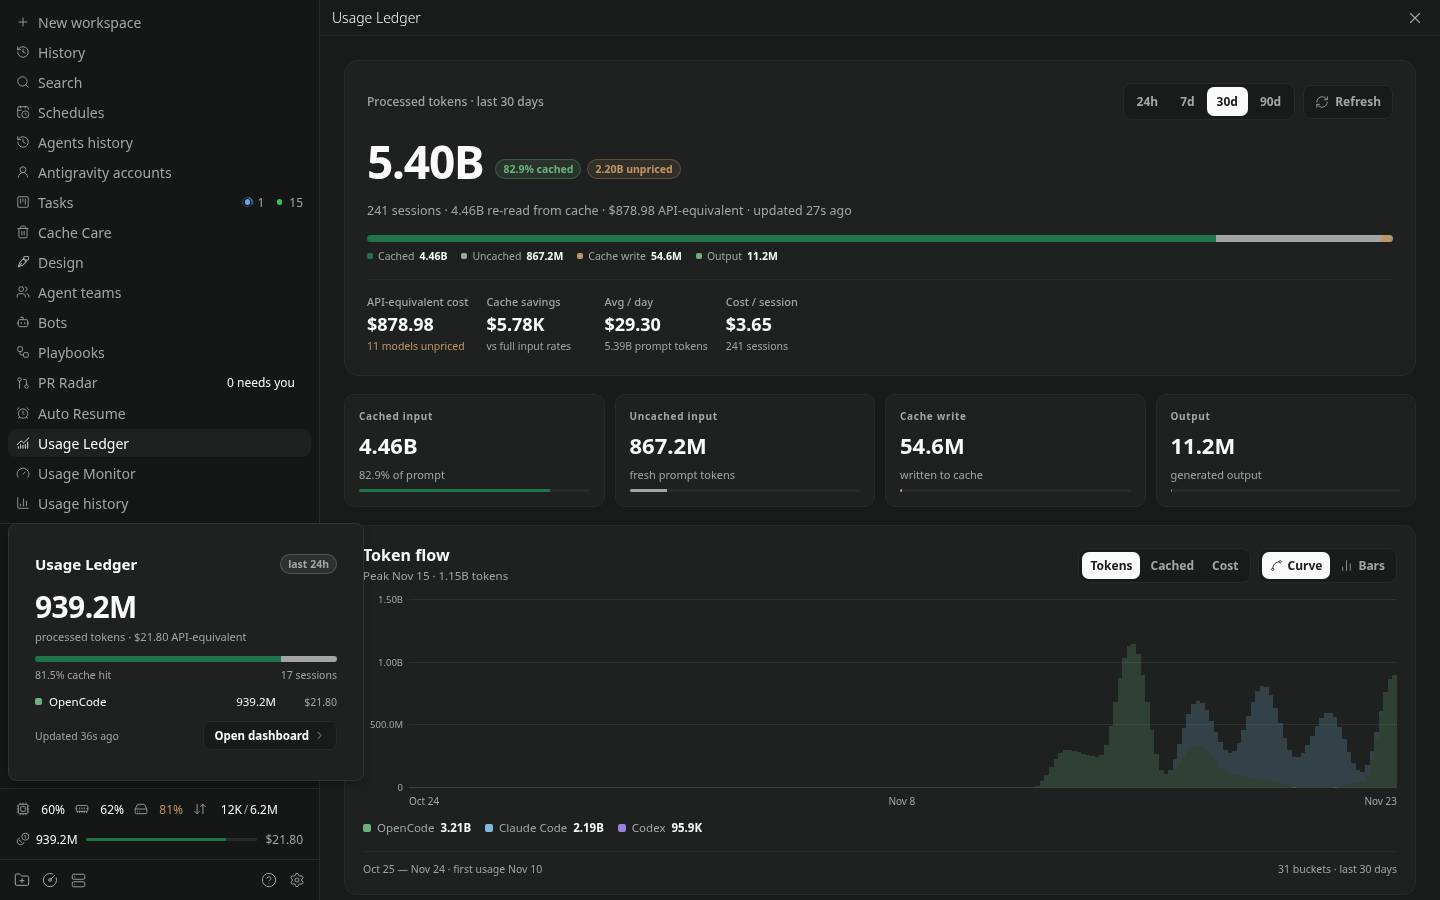
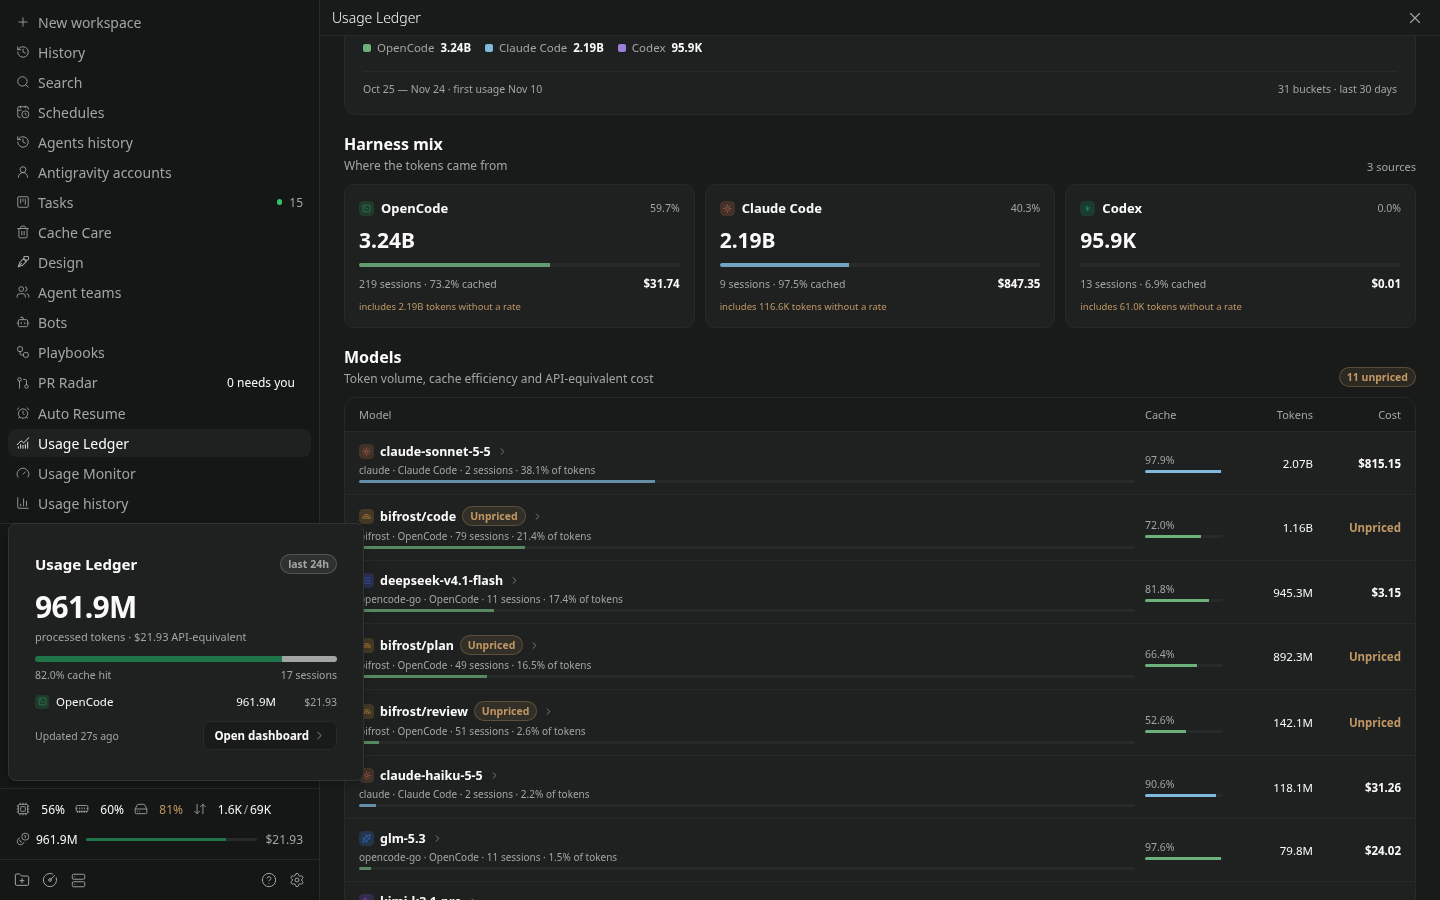
docs: document provider marks and refresh screenshots

diff --git a/OVERVIEW.md b/OVERVIEW.md
@@ -6,7 +6,7 @@ Token, cache, and API-equivalent cost analytics for Paseo agents.
 
 - **Sidebar row:** "Usage Ledger" opens the screen.
 - **Sidebar footer:** 24h tokens, cache meter, cost, and a popover with the harness split.
-- **Usage Ledger screen:** hero, range switch, composition meter, four token cards, stacked harness chart, harness cards, model table, and cost-assumption notes.
+- **Usage Ledger screen:** hero, range switch, composition meter, four token cards, stacked harness chart, harness cards, model table, automatic provider marks, and cost-assumption notes.
 
 Controls:
 
@@ -31,6 +31,7 @@ Controls:
 - Cost uses the reported log cost when present; otherwise the bundled rate table.
 - A model with no reported cost and no bundled rate is **Unpriced** and excluded from cost, never plotted as free.
 - Harness colors are fixed identity colors, not theme-accent or usage-rank colors.
+- Provider marks are detected from `model`, `provider`, then `harness`; model vendors win over gateways, and unknown names get a neutral `Cpu` mark. No network or brand asset is needed.
 
 ## Architecture
 
@@ -39,6 +40,7 @@ Controls:
 - `server/ledger.ts` — filesystem/SQLite sources, mtime+size JSONL cache, 60s summary cache, single-flight refresh.
 - `client/flow-chart.tsx` — stacked area/bars drawn with Views because plugins cannot load SVG.
 - `client/sidebar.tsx` — navigation row, ccusage-style footer, and popover.
+- `client/provider-rules.ts` + `provider-mark.tsx` — pure name detection and the tinted provider chip.
 - `shared/contracts.ts` — zod RPC contract; `ledger.summary` takes `{ range, refresh? }`.
 
 ## Cost of a refresh
@@ -55,7 +57,7 @@ Controls:
 
 - `npm run lint` — oxlint over client, server, shared, tests, and bench.
 - `npm run typecheck` — strict TypeScript.
-- `npm test` — parsers, aggregation, pricing, formatting, palette stability, chart scale.
+- `npm test` — parsers, aggregation, pricing, formatting, palette stability, provider detection, chart scale.
 - `npm run bench -- --assert` — parse throughput, 200k-event aggregation, summary time, heap growth.
 - `npm pack --dry-run` — plugin package contents.
 - GitHub Actions runs all checks on Node 22.

diff --git a/README.md b/README.md
@@ -10,6 +10,10 @@ Open it from **Usage Ledger** in the sidebar, or from the footer row. The footer
 
 ![Sidebar footer and 24h popover](docs/footer-dark.png)
 
+Harness cards and model rows get a provider mark from the logged names:
+
+![Provider marks on harness cards and model rows](docs/provider-marks.png)
+
 <details>
 <summary>Light theme</summary>
 
@@ -38,6 +42,7 @@ paseo plugin update usage-ledger
 - Per-harness sessions, cache rate, spend, and unpriced volume.
 - Per-model tokens, cache rate, share, blended cost per million tokens, and the full token split on expand.
 - **Unpriced** for any model without a reported cost or a bundled rate.
+- Automatic provider marks on harness and model rows. Claude, OpenAI, Codex, DeepSeek, Gemini, GLM, Kimi, Qwen, Mistral, Llama, Antigravity, OpenCode, Bifrost, and Ollama are recognized from the logged strings; unknown providers get a neutral chip. No brand assets are downloaded.
 
 The chart names its peak bucket. When a selected range begins before the first recorded usage, the footer says where the data starts instead of leaving an unexplained gap.
 
@@ -97,7 +102,7 @@ Run it yourself with `npm run bench -- --assert`. The benchmark is part of CI, s
 npm ci
 npm run lint        # oxlint
 npm run typecheck   # strict TypeScript
-npm test            # parsers, aggregation, pricing, formatting, palette, chart scale
+npm test            # parsers, aggregation, pricing, formatting, palette, provider detection, chart scale
 npm run bench -- --assert
 ```
 
